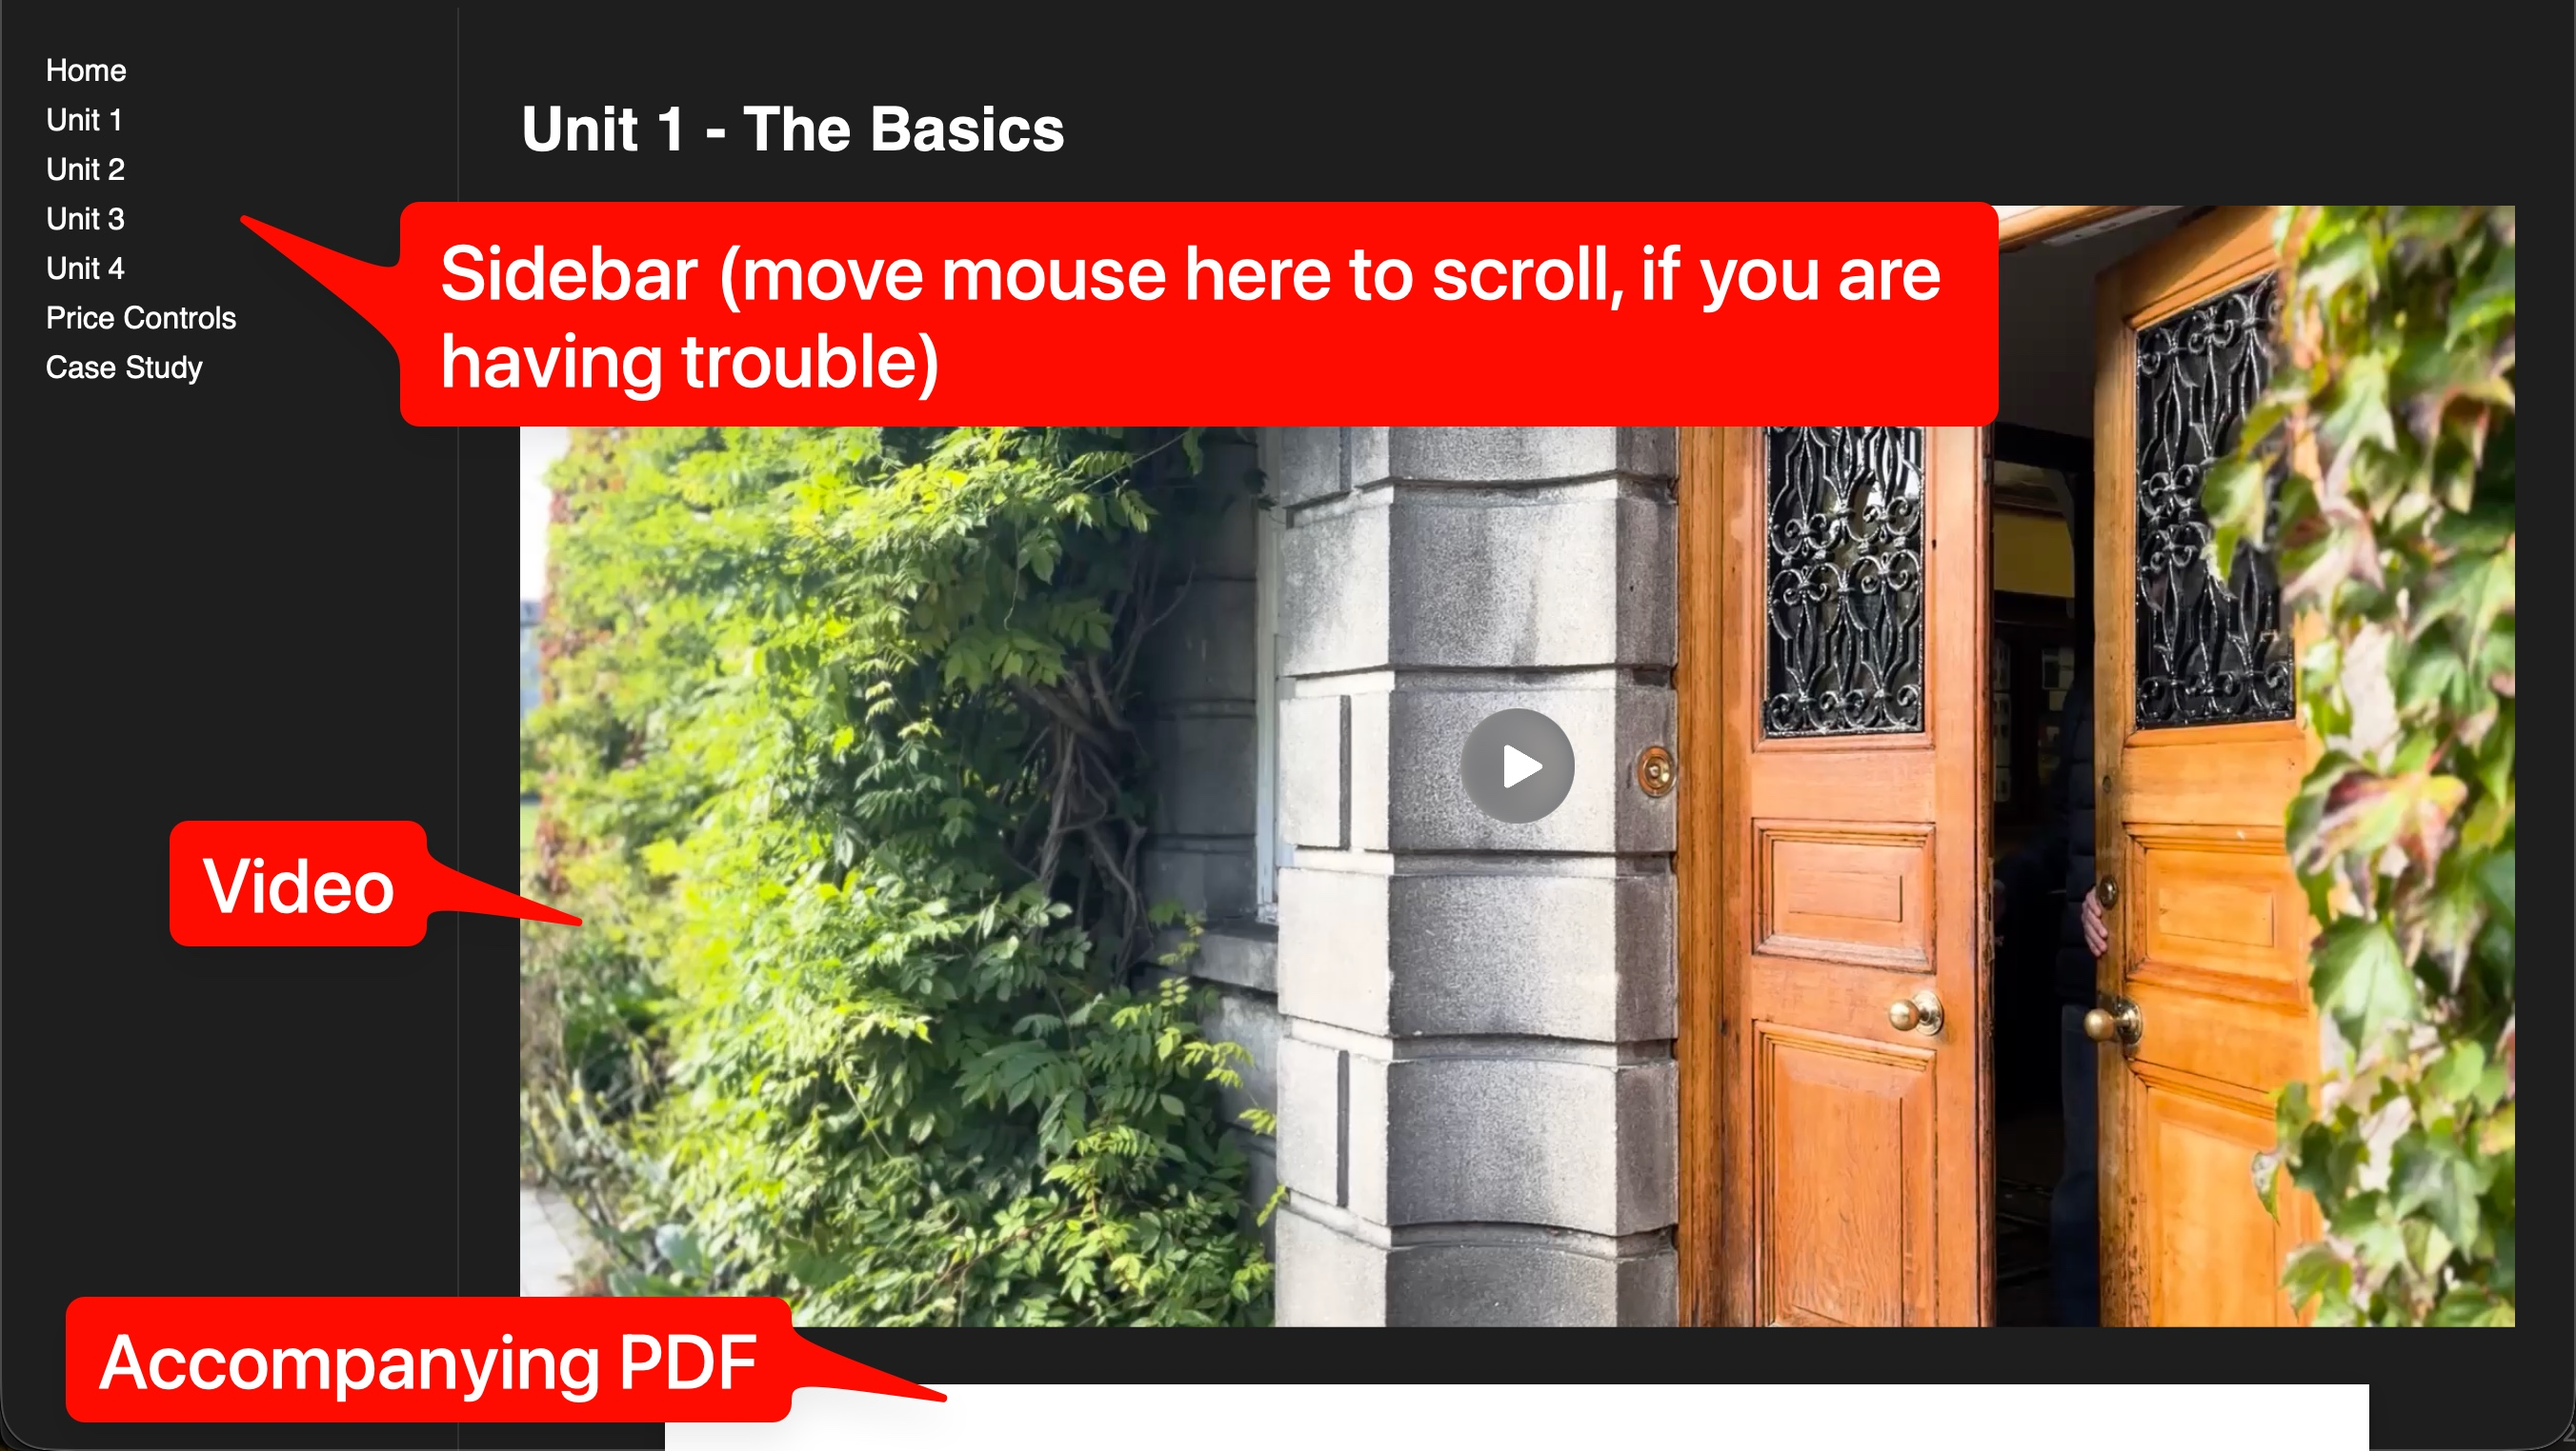
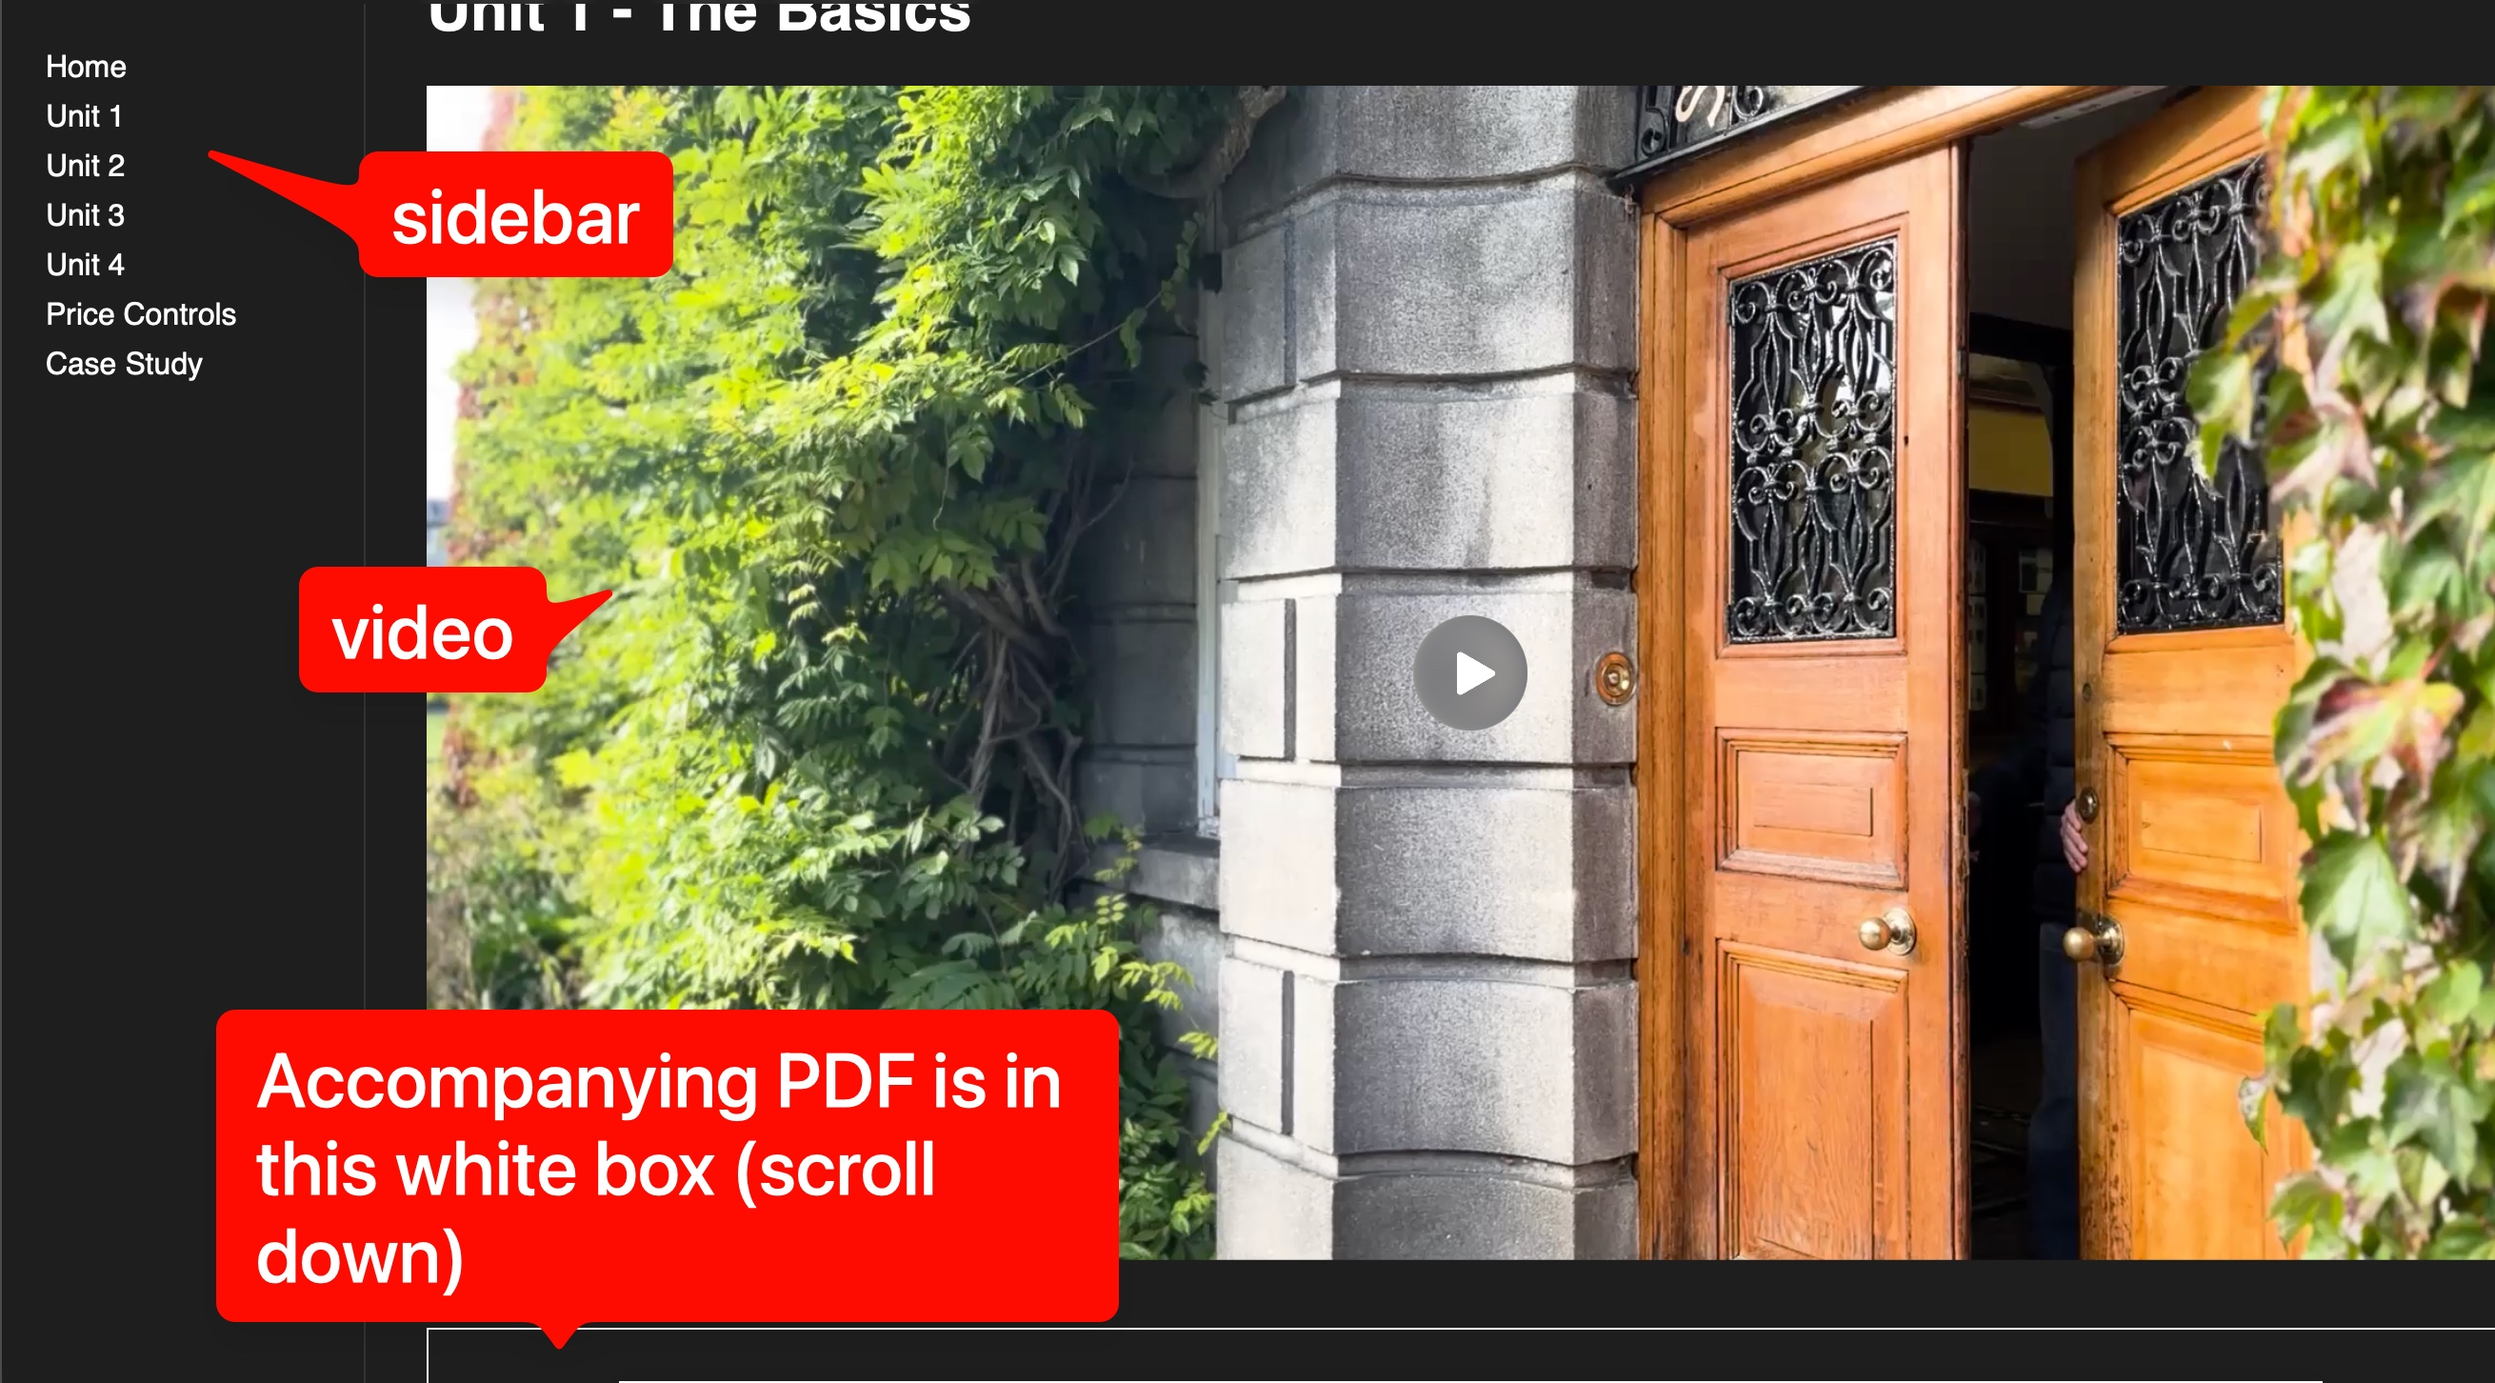
A few more changes

diff --git a/index.html b/index.html
@@ -14,11 +14,21 @@
 </nav>
 <main>
   <h1>Economic Policy Group Project - Home</h1>
-  <p>Welcome to our group project website! Each link in 
-    the sidebar takes you to a page covering the corresponding unit. 
-    In each page, you should scroll down after watching the video 
-    in order to read the pdf. Try to move your mouse to the sidebar 
-    before you scroll down, it avoids issues. </p>
+  <p>Welcome to our group project website!</p>
+    <ul>
+      <li>Each link in 
+    the sidebar takes you to a page covering the corresponding unit.</li>
+      <li>In each page, you should scroll down after watching the video 
+    in order to read the accompanying PDF file.</li>
+    </ul>
+
+    <p>
+    TIP: If you are <u>having trouble scrolling down</u>, try to move your 
+    mouse outside of the <b>white box (labelled in the image guide 
+      below)</b> before scrolling. <br>
+    <b>WARNING</b>: The site may look different to the image guide below if you are on Windows or another OS. Please let me know if anything is broken.
+  </p>
+
   <p>We hope you enjoy.</p>
   <img src="guide.jpeg" alt="Image guide">
 </main>

diff --git a/style.css b/style.css
@@ -2,11 +2,11 @@
 body { display: flex; margin: 0; min-height: 100vh; font-family: sans-serif; }
 nav { display: flex; flex-direction: column; gap: .5rem; width: 12rem; padding: 1.5rem; border-right: 1px solid #333; }
 nav a { color: inherit; text-decoration: none; }
-nav a:hover { text-decoration: underline; }
-main { flex: 1; padding: 1.5rem 2rem; }
+nav { position: sticky; top: 0; height: 100vh; box-sizing: border-box; display: flex; flex-direction: column; gap: .5rem; width: 12rem; padding: 1.5rem; border-right: 1px solid #333; }
+main { flex: 1; padding: 1.5rem 2rem 3rem; gap: 3rem;}
 video, object { width: 100%; }
-object { height: 90vh; }
-.container { display: flex; gap: .5rem; }
+object { height: 90vh; border: 1px solid white; margin-top: 2rem; }
+.container { display: flex; }
 .container video { flex: 1; min-width: 0; }
-.pdf-container {border: white;}
-img { max-width: 100%; }
+img { max-width: 100%; border: 1px solid white; }
+footer { position: fixed; bottom: 0; left: 0; right: 0; padding: .5rem; text-align: center; font-size: .8rem; background: Canvas; border-top: 1px solid #333; }

diff --git a/unit4.html b/unit4.html
@@ -18,7 +18,6 @@
     <video controls src="video/unit4-1.mp4"></video>
     <video controls src="video/unit4-2.mp4"></video>
   </div>
-  <div class="pdf-container">
-    <object data="pdf/unit4.pdf" type="application/pdf"><a href="unit4.pdf">Open the PDF</a></object>
-  </div>
+  <object data="pdf/unit4.pdf" type="application/pdf"><a href="unit4.pdf">Open the PDF</a></object>
 </main>
+<footer>© 2026 Víctor R. All rights reserved.</footer>

diff --git a/unit2.html b/unit2.html
@@ -15,7 +15,6 @@
 <main>
   <h1>Unit 2 - Supply & Demand</h1>
   <video controls src="video/unit2.mp4"></video>
-  <div class="pdf-container">
-    <object data="pdf/unit2.pdf" type="application/pdf"><a href="unit2.pdf">Open the PDF</a></object>
-  </div>
+  <object data="pdf/unit2.pdf" type="application/pdf"><a href="unit2.pdf">Open the PDF</a></object>
 </main>
+<footer>© 2026 Víctor R. All rights reserved.</footer>

diff --git a/unit3.html b/unit3.html
@@ -15,7 +15,6 @@
 <main>
   <h1>Unit 3 - Equilibrium</h1>
   <video controls src="video/unit3.mp4"></video>
-  <div class="pdf-container">
-    <object data="pdf/unit3.pdf" type="application/pdf"><a href="unit3.pdf">Open the PDF</a></object>
-  </div>
+  <object data="pdf/unit3.pdf" type="application/pdf"><a href="unit3.pdf">Open the PDF</a></object>
 </main>
+<footer>© 2026 Víctor R. All rights reserved.</footer>

diff --git a/unit1.html b/unit1.html
@@ -15,7 +15,6 @@
 <main>
   <h1>Unit 1 - The Basics</h1>
   <video controls src="video/unit1.mp4"></video>
-  <div class="pdf-container">
-    <object data="pdf/unit1.pdf" type="application/pdf"><a href="unit1.pdf">Open the PDF</a></object>
-  </div>
+  <object data="pdf/unit1.pdf" type="application/pdf"><a href="unit1.pdf">Open the PDF</a></object>
 </main>
+<footer>© 2026 Víctor R. All rights reserved.</footer>
